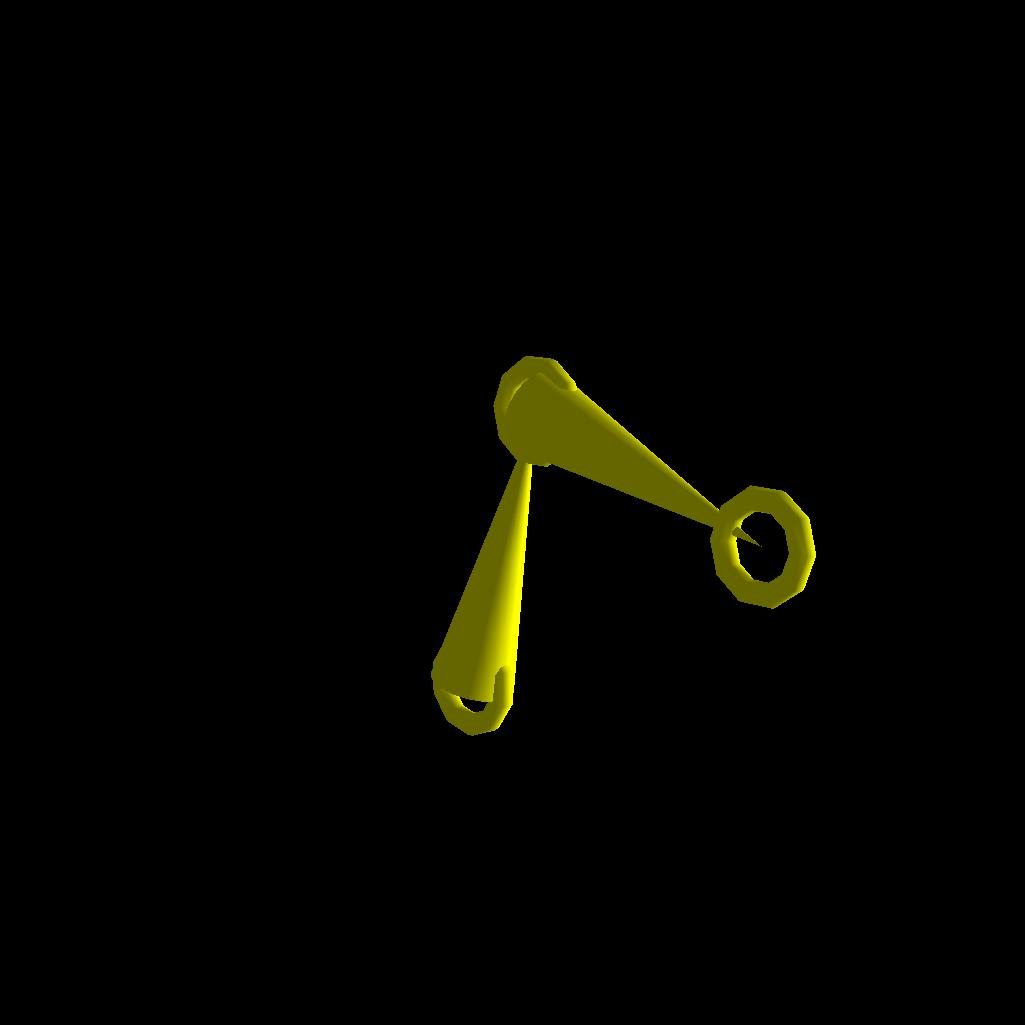
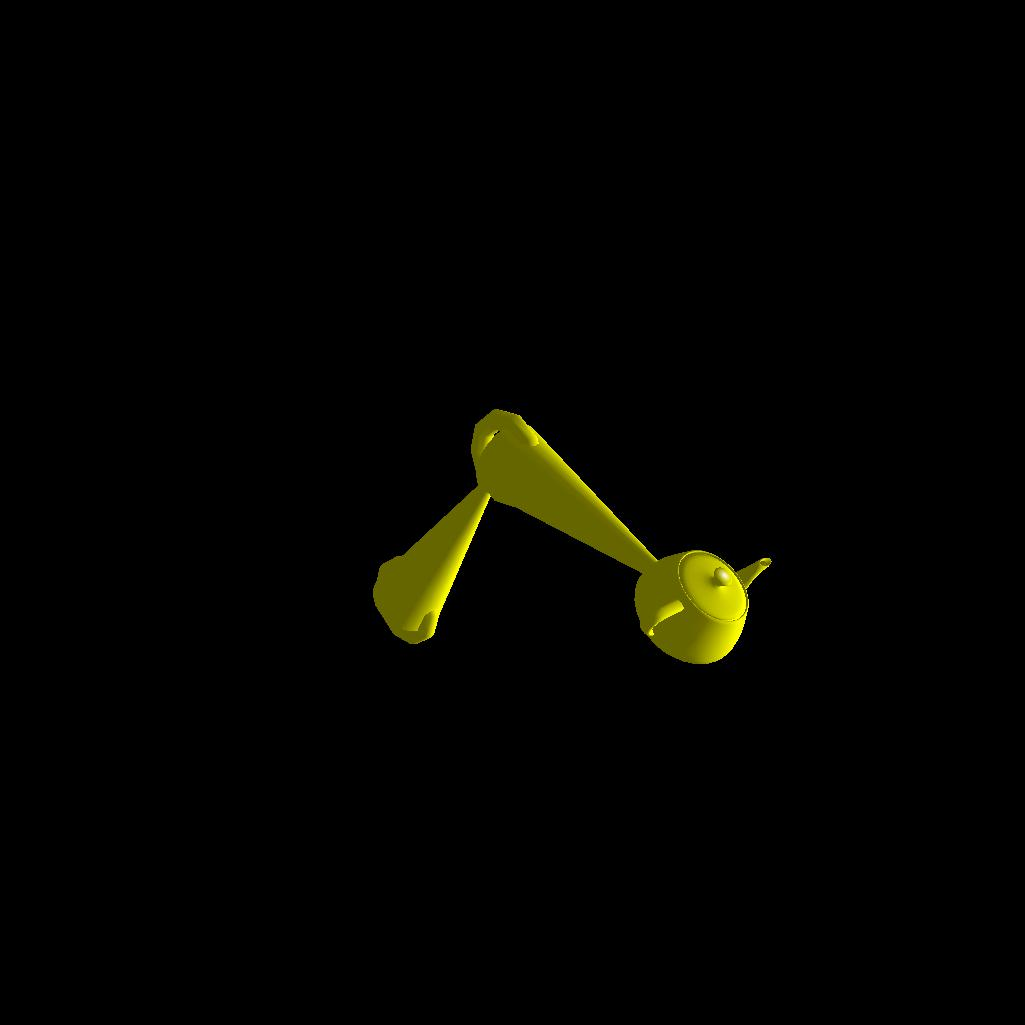
change backdrop img

Changed region(s): [[0.3434, 0.3434, 0.8117, 0.718]]

diff --git a/redesign/Model.py b/redesign/Model.py
@@ -632,7 +632,7 @@ class Joint(Model):
             GL.glColor4fv(tuple(color))
             
             if not self.flags['showModelWireframe']:
-                    color = drawFunc.WhiteColorVector
+                    color = drawFunc.YellowColorVector
                     color = list(color).copy()
                     color.append(self.opacityValue)
                     
@@ -673,6 +673,9 @@ class Joint(Model):
                     GLUT.glutSolidSphere(.74,10,10)
                 elif self.drawFunction == 'torus':
                     GLUT.glutSolidTorus(0.2,0.74,10,10)
+                elif self.drawFunction == 'teapot':
+                    GLUT.glutSolidTeapot(1)
+                    
             else:
                 GL.glEnable(GL.GL_CULL_FACE)
                 GL.glCullFace(GL.GL_BACK)
@@ -680,7 +683,8 @@ class Joint(Model):
                     GLUT.glutWireSphere(.74,10,10)
                 elif self.drawFunction == 'torus':
                     GLUT.glutWireTorus(0.2,0.74,10,10)
-            
+                elif self.drawFunction == 'teapot':
+                    GLUT.glutWireTeapot(1)
             if not self.flags['enableLight']:
                 # turn on lighting
                 GL.glEnable(GL.GL_LIGHTING)
@@ -712,7 +716,7 @@ class Joint(Model):
                     GL.glLoadName(9999)
                 
                 if not self.flags['showModelWireframe']:
-                    color = drawFunc.WhiteColorVector
+                    color = drawFunc.YellowColorVector
                     color = list(color).copy()
                     color.append(self.opacityValue)
                     

diff --git a/redesign/main.py b/redesign/main.py
@@ -157,7 +157,7 @@ def openGUI(conn,samplingRate = 0.005):
         jointA = Joint('A',1,'torus')
         jointB = Joint('B',2,'torus')
         
-        jointC = Joint('C',3,'torus')
+        jointC = Joint('C',3,'teapot')
         if modelMode =='fk':
             gui.addModel('Arti1',6,objType = 'joint',listOfJoint=[jointA,jointB,jointC],showTarget = False,showPole = False)
         elif modelMode == 'ik':
